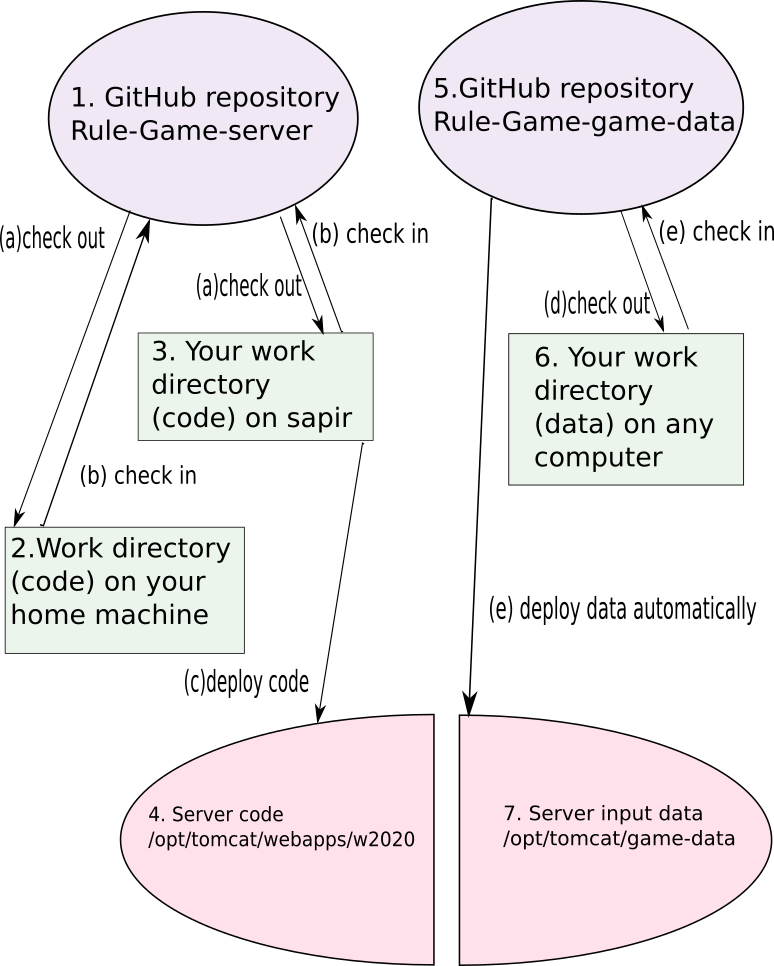
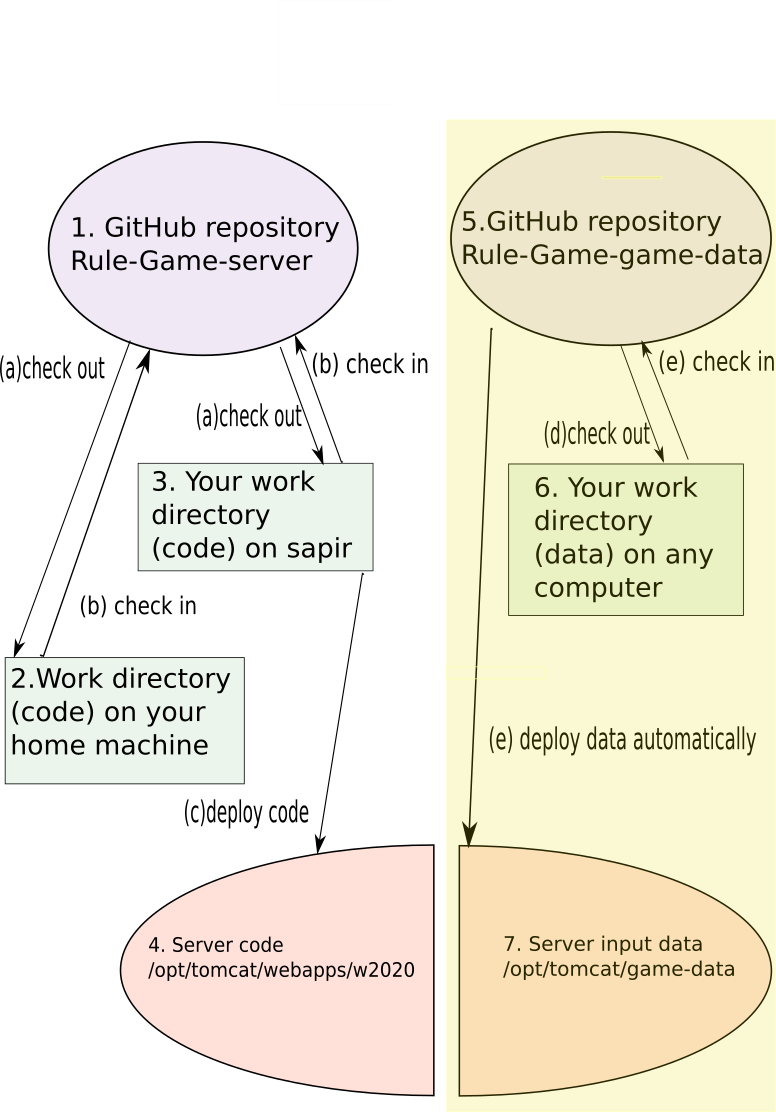
docs

diff --git a/web/sop-experiment.html b/web/sop-experiment.html
@@ -1,15 +1,16 @@
 <html>
   <head><title>Standard Operating Procedures: Preparing and running an experiment with the Rule Game Server</title>
+   <link rel="stylesheet" type="text/css" href="css/rule-game.css"/>
   </head>
 <body>
   <h1>Standard Operating Procedures: Preparing and running an experiment with the Rule Game Server</h1>
 
-    <p align="center"><em>Updated 2021-03-15 for Game Server ver. 2.006</em></p>
+    <p align="center"><em>Updated 2021-04-02 for Game Server ver. 2.006</em></p>
 
     <h2>Preparing the experiment control files</h2>
 
     <h3>The control files</h3>
-  <p>As discussed in the <a href="data.html">Rule Game server data guide</a>, a number of files need to prepared in the <strong>server's game data directory</strong> (/opt/tomcat/game-data) in order to control the players' experience during your experiment. At a minimum, this should include:
+  <p>As discussed in the <a href="data.html">Rule Game server data guide</a>, a number of files need to be prepared in the <strong>server's game data directory</strong> (/opt/tomcat/game-data) in order to control the players' experience during your experiment. At a minimum, this should include:
     <ul>
       <li>The experiment plan directory (a subdirectory under /opt/tomcat/game-data/trial-lists), containing one or several trial list files. The server will <a href="balancing.html">pseudo-randomly assign</a> players, in a balanced manner, to different trial lists, so each of the trial list files will be the top-level file defining the experiences of a particulalry (randomly selected) subgroup of the participants of your experiment.
       <li>For each rule set mentioned in the trial list files, a  <a href="syntax.html">rule set file</a> must be created in the rules directory, /opt/tomcat/game-data/rules. If you are creating a group of rule set files to be used in just one experiment, or in some series of experiments, it would make sense to place them into a new, specially created subdirectory under the rules directory. This will make it easier to manage rule set files.
@@ -17,19 +18,23 @@
 
   <p>Depending on the design of your experiment, you may also need to create or modify other files:
     <ul>
-      <li>If your trial lists refer to pre-created initial boards, you need to create the board files.
+      <li>If your trial lists refer to pre-created initial boards, you need to create the initial board directory, which will contains the initial border files, and, possibly, an ordering control file.
       <li>If your experiment intends to use custom shapes (as reflected in the trial list files or rule sets), you need to make sure you have the SVG files for all shapes at the appropriate locations. (See: <a href="colors-and-shapes.html">Using custom shapes and colors in Rule Game Server 2.*</a>)
       <li>If your experiment intends to use custom colors (as reflected in the trial list files or rule sets), make sure you have those colors defined in the  <a href="colors-and-shapes.html#map">color map file</a>
     </ul>
 
     <h3>Using a GitHub repository</h3>
+    
 
-  <p>As discussed in an email message dated 2021-02-17, it probably would be a good idea to ensure that the "history" of  the experiment control files is fully reflected in a GitHub repository. One approach to this would be to edit the experiment control files not in the server's game data directory, but in one's development directory (somewhere under one's home directory), which is linked to the  GitHub repository. When the files are updated, one copies them from the development directory to the server's game data directory, and simultaneously commits them to the GitHub repository.
-
-    <p>
-      A simple approach would be to to create and modify control files in your own directory on sapir, copy them to the server directory every time you want to try them out, and finally commit everything to GitHub before actually running the experiment with "real" players.
-
-      <p>Either procedure will ensure that one could have a reliable way in the future to see what set of control files was deployed to the server during the experiment.
+  <p>One should not try to  edit the experiment control files directly in the server's game data directory. Instead, one should follow the procedures outlined in the <a href="deploy.html">Deployment SOP</a> (in that document, you only need to look at <span class="yellow">the sections written on yellow background</span>). In a nutshell:
+    <ul>
+      <li>The "master copy" of the experiment control files (the entire content of the /opt/tomcat/game-data directory tree) is kept in a GitHub repository;
+      <li>You can "check out" these files to your working directory, either on your home PC or on sapir;
+      <li>You can edit the files in your working directory as desired, adding new subdirectories and files as needed;
+      <li>Once done, you can check in your work into the repository; that will result in the updated files being automatically deployed to the  /opt/tomcat/game-data directory tree on sapir.
+	</ul>
+	
+      <p>This procedure ensures that at any point in the future we will have a reliable to see, by examining the repository's history, what set of control files was deployed to the server during any particular experiment.
 
         <h3>Checking your math</h3>
 

diff --git a/web/deploy.html b/web/deploy.html
@@ -1,11 +1,14 @@
 <html>
   <head><title>Standard Operating Procedures: Building and deploying the Game Server</title>
+    <link rel="stylesheet" type="text/css" href="css/rule-game.css"/>
   </head>
 <body>
   <h1>Standard Operating Procedures: Building and deploying the Game Server</h1>
 
-    <p align="center"><em>Updated 2021-03-31</em></p>
+    <p align="center"><em>Updated 2021-04-02.</em></p>
 
+<p class="yellow">Note: in this document, sections of importance for experiment designers (Aria, Ellise, Gary...) are in yellow. The rest is primarily of importance only to those who work with the server code.</p>
+    
 <h2>Maintaining and deploying server code and server data</h2>
 
 <p>The Game Server source code (including documentation web pages) and the <a href="data.html#in">experiment control files (read-only data)</a> (CSV files which control the experiments) are handled as outlined in the chart below:</p>
@@ -23,17 +26,18 @@
 
       <li><strong>4. "live" code.</strong> The "running" Web Rule Game server's code is located in <tt>/opt/tomcat/webapps/w2020</tt>. You don't touch this directory directly, but deploy code there using the procedure outlioned in (c) below.
 
-      <li><strong>5. The GitHub repository for the data</strong> is the place where the "master copy" of the server's read-only data, i.e. the experiment control files,  is stored. The location is as follows:
+	
+      <li class="yellow"><strong>5. The GitHub repository for the data</strong> is the place where the "master copy" of the server's read-only data, i.e. the experiment control files,  is stored. The location is as follows:
 		 <a href="https://github.com/lupyanlab/Rule-Game-game-data">Rule-Game-game-data</a>  (To see this page, you must be an authorized user at <a href="https://github.com/lupyanlab">Lupyan Lab</a>, and you must be currently logged in to GitHub. Otherwise, you'll just see Error 404. If you need access to this project, send your Github account name to Kevin, and ask to add you to the list of contributors.)
 
 
-   <li><strong>6. Your work directory, for working on server data on any computer.</strong> You can create and modify code and data files on any computer which is convenient for you to use, such as your home or office computer, or sapir. For illustration, let's assume that the place where you work on this project is <tt>~/w2020</tt>.
+   <li class="yellow"><strong>6. Your work directory, for working on server data on any computer.</strong> You can create and modify code and data files on any computer which is convenient for you to use, such as your home or office computer, or sapir. For illustration, let's assume that the place where you work on this project is <tt>~/w2020</tt>.
    	
 
-      <li><strong>7. "Live" data.</strong>  The "running" Web Rule Game server reads its experiment control files (read-only data) from CSV, TXT, and SVG files that are located under  <tt>/opt/tomcat/game-data</tt>. In order to ensure that your files don't just disappear after a subsequent deployment, you should not edit data files directly in this directory. 
+   <li class="yellow"><strong>7. "Live" data.</strong>  The "running" Web Rule Game server reads its experiment control files (read-only data) from CSV, TXT, and SVG files that are located under  <tt>/opt/tomcat/game-data</tt>. In order to ensure that your files don't just disappear after a subsequent deployment, you should not edit data files directly in this directory.
     </ul>
   </p>
-  
+
 <p>Staff who work with the server code may carry out the following procedures:
        <ul>
 	 <li><strong>(a) Check out code.</strong> Before you start working on the server code, either on your home computer (2) or on sapir (3), you need to get the current version of the project's files from the GitHub server. You can do it as follows:
@@ -97,7 +101,8 @@ Besides <tt>git</tt>, there are various other command-line and visual client app
        </ul>
 
 
-<p>Staff working with experiment control files may carry out the following operations.
+<div class="yellow">  
+<p>Staff working with the experiment control files may carry out the following operations:
        
        <ul>
 	 <li><strong>(d) Check out the data.</strong> Before you start working on the server data, in the work directory (6), either on your home computer or on sapir, you need to get the current version of the project's files from the GitHub server. You can do it as follows:
@@ -141,6 +146,7 @@ Besides <tt>git</tt>, there are various other command-line and visual client app
 	   
        </ul>
 </p>
+</div>  
 
 
 <h2>Production server vs. development server</h2>

diff --git a/web/css/rule-game.css b/web/css/rule-game.css
@@ -1,0 +1,3 @@
+.yellow { background-color:#FFFFB0 }
+
+  
